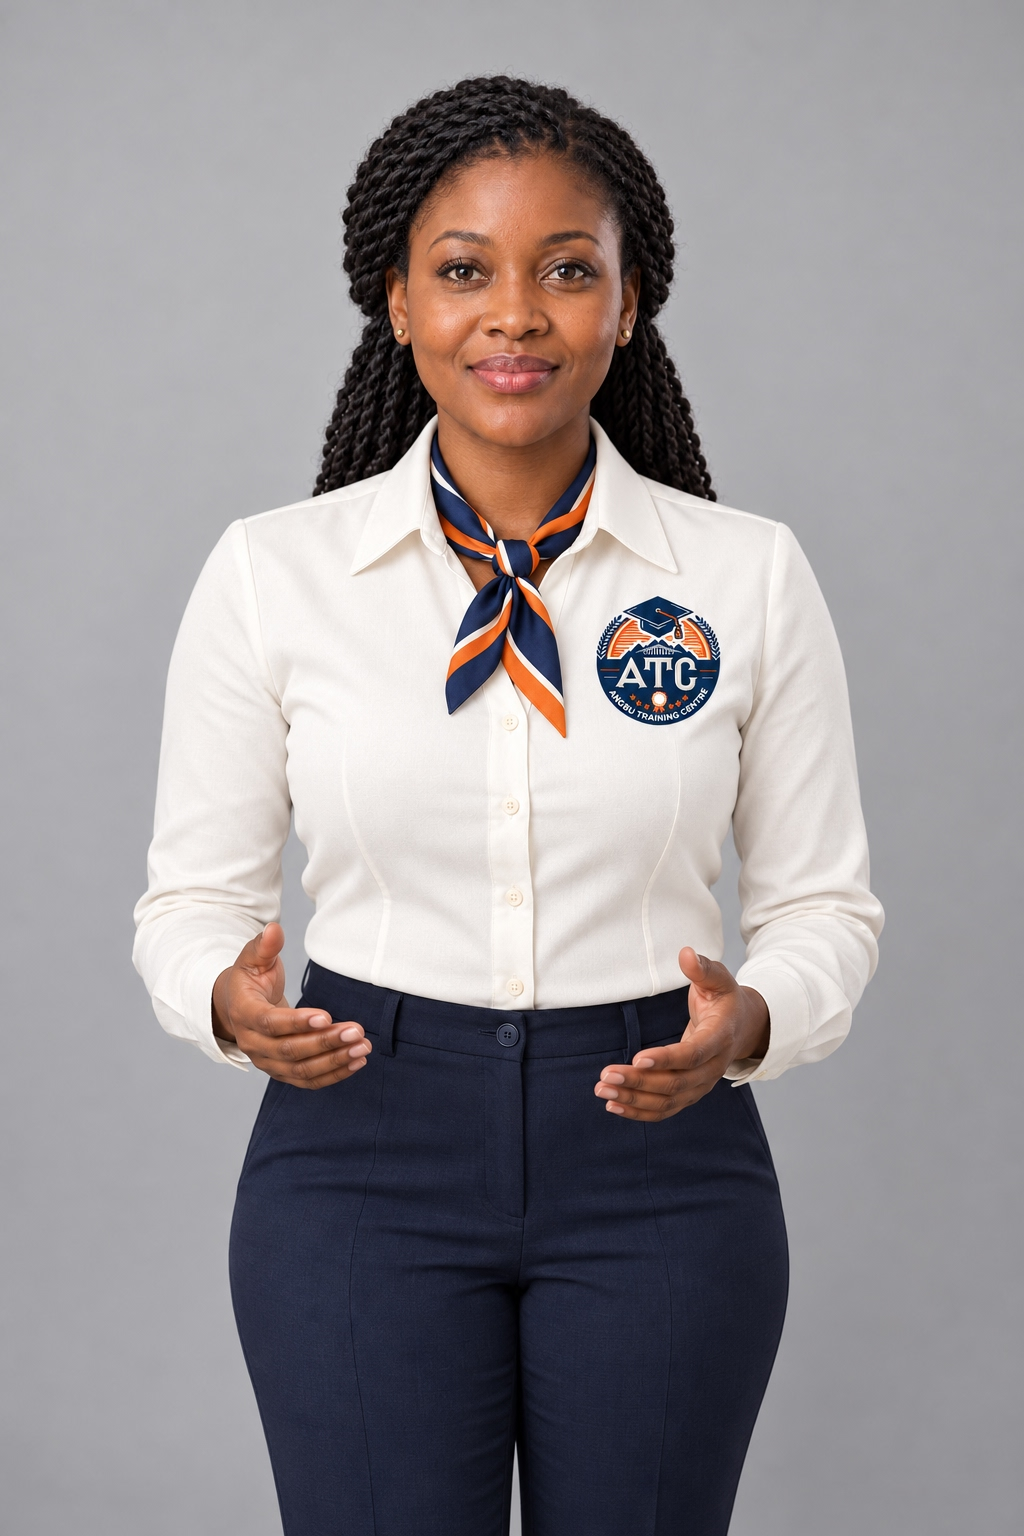
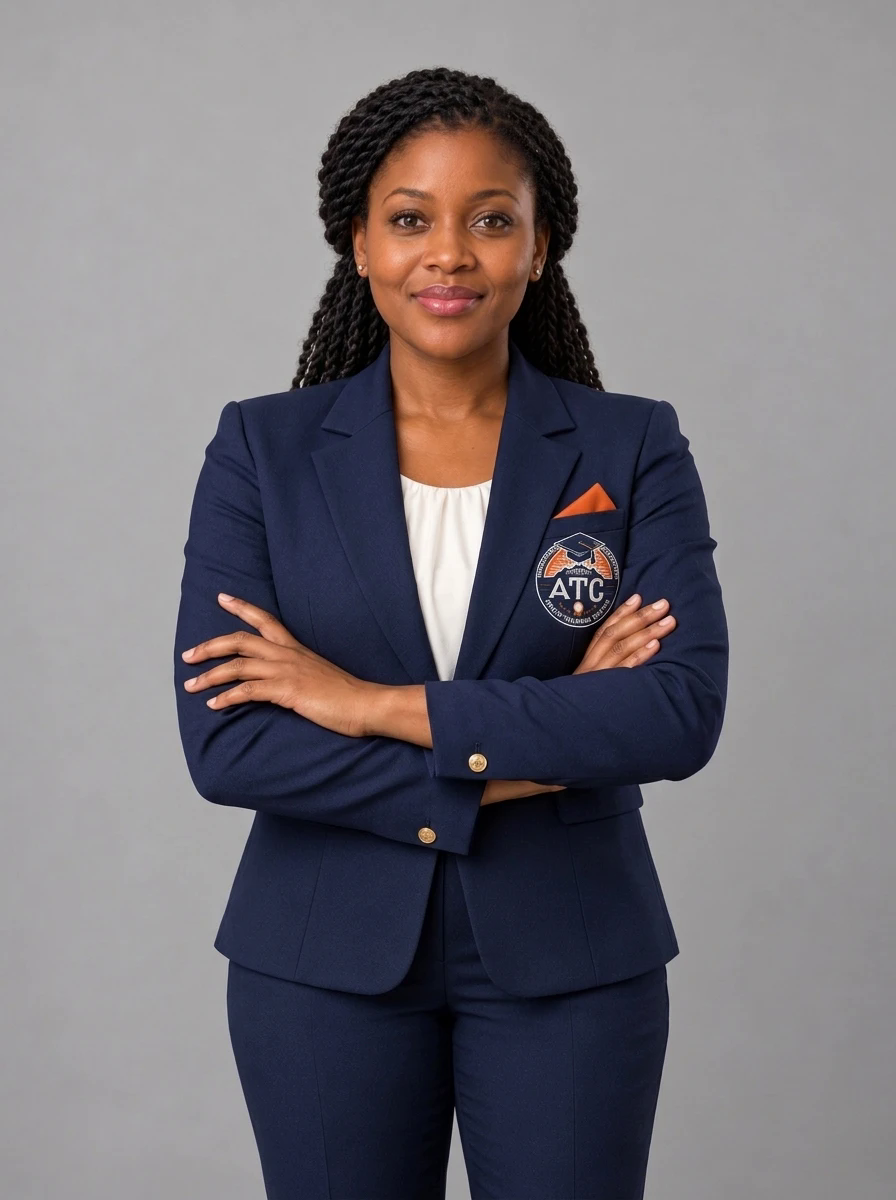
Ecrã de escolha do guia: novos retratos da Helena e do Miguel com blazer ATC
Claude-Session: https://claude.ai/code/session_01TW88vbDNNMSmGPktF3ssrz

diff --git a/static/atc.css b/static/atc.css
@@ -235,7 +235,7 @@ footer { background:transparent; color:#7b8593; border-top:1px solid var(--line)
 /* Learner identity and course presenters */
 .avatar-navy { background:#dbe7f2;color:#173b5b; }.avatar-green { background:#deece5;color:#296245; }.avatar-rose { background:#f3e0e5;color:#7d3e54; }.avatar-sand { background:#f1e4d5;color:#785231; }
 .avatar-large { width:70px;height:70px;font-size:26px; }.profile-intro { display:flex;align-items:center;gap:22px;margin-bottom:25px; }.profile-intro h2 { margin-top:5px; }.profile-intro p { margin:0; }.profile-colors { border:0;padding:0;display:flex;gap:20px;flex-wrap:wrap; }.profile-colors legend { font-size:12px;font-weight:600;margin-bottom:12px; }.color-choice { display:flex;align-items:center;gap:8px;font-size:12px; }.color-choice input { width:auto;margin:0;accent-color:var(--orange); }.color-swatch { width:22px;height:22px;border-radius:50%;display:block; }
-.profile-prompt { display:flex;gap:20px;align-items:center;justify-content:space-between;padding:20px 24px;background:#fff9f2;border:1px solid #efdfce;border-radius:10px;margin-bottom:28px; }.profile-prompt b { display:block;font-size:13px;overflow-wrap:anywhere; }.profile-prompt span { display:block;font-size:11px;color:var(--muted); }.profile-prompt a { flex-shrink:0; }.presenter-heading { text-align:center;margin:18px auto 28px;max-width:620px; }.presenter-heading h1 { font-size:38px;margin:14px 0; }.presenter-heading p { font-size:13px;color:var(--muted); }.presenter-options { display:grid;grid-template-columns:repeat(2,minmax(0,1fr));gap:28px;max-width:770px;margin:auto; }.presenter-option { position:relative;display:block;margin:0;border-radius:15px;background:#fff;border:2px solid var(--line);overflow:hidden;cursor:pointer;transition:border-color .2s,box-shadow .2s; }.presenter-option:hover { border-color:#c39772; }.presenter-option:has(input:checked) { border-color:var(--orange);box-shadow:0 0 0 4px #b9511614; }.presenter-option:has(input:focus-visible) { outline:3px solid var(--orange);outline-offset:5px; }.presenter-option>input { position:absolute;top:18px;left:18px;width:20px;height:20px;z-index:2;accent-color:var(--orange);margin:0; }.presenter-portrait { display:block;position:relative;aspect-ratio:1/1;overflow:hidden;background:#e5e3df; }.presenter-portrait img { width:100%;height:100%;object-fit:cover;object-position:50% 24%; }.selection-check { position:absolute;right:16px;bottom:16px;background:var(--orange);color:white;width:30px;height:30px;display:none;align-items:center;justify-content:center;border-radius:50%; }.presenter-option input:checked + .presenter-portrait .selection-check { display:flex; }.presenter-info { display:block;padding:20px 24px; }.presenter-info strong { display:block;font-size:25px;line-height:1.5; }.presenter-info>span:last-child { font-size:11px;color:var(--muted);font-weight:400; }.presenter-submit { max-width:770px;display:flex;justify-content:space-between;align-items:center;gap:20px;margin:26px auto; }.presenter-submit p { font-size:10px; }
+.profile-prompt { display:flex;gap:20px;align-items:center;justify-content:space-between;padding:20px 24px;background:#fff9f2;border:1px solid #efdfce;border-radius:10px;margin-bottom:28px; }.profile-prompt b { display:block;font-size:13px;overflow-wrap:anywhere; }.profile-prompt span { display:block;font-size:11px;color:var(--muted); }.profile-prompt a { flex-shrink:0; }.presenter-heading { text-align:center;margin:18px auto 28px;max-width:620px; }.presenter-heading h1 { font-size:38px;margin:14px 0; }.presenter-heading p { font-size:13px;color:var(--muted); }.presenter-options { display:grid;grid-template-columns:repeat(2,minmax(0,1fr));gap:28px;max-width:770px;margin:auto; }.presenter-option { position:relative;display:block;margin:0;border-radius:15px;background:#fff;border:2px solid var(--line);overflow:hidden;cursor:pointer;transition:border-color .2s,box-shadow .2s; }.presenter-option:hover { border-color:#c39772; }.presenter-option:has(input:checked) { border-color:var(--orange);box-shadow:0 0 0 4px #b9511614; }.presenter-option:has(input:focus-visible) { outline:3px solid var(--orange);outline-offset:5px; }.presenter-option>input { position:absolute;top:18px;left:18px;width:20px;height:20px;z-index:2;accent-color:var(--orange);margin:0; }.presenter-portrait { display:block;position:relative;aspect-ratio:1/1;overflow:hidden;background:#e5e3df; }.presenter-portrait img { width:100%;height:100%;object-fit:cover;object-position:50% 4%; }.selection-check { position:absolute;right:16px;bottom:16px;background:var(--orange);color:white;width:30px;height:30px;display:none;align-items:center;justify-content:center;border-radius:50%; }.presenter-option input:checked + .presenter-portrait .selection-check { display:flex; }.presenter-info { display:block;padding:20px 24px; }.presenter-info strong { display:block;font-size:25px;line-height:1.5; }.presenter-info>span:last-child { font-size:11px;color:var(--muted);font-weight:400; }.presenter-submit { max-width:770px;display:flex;justify-content:space-between;align-items:center;gap:20px;margin:26px auto; }.presenter-submit p { font-size:10px; }
 .presenter-banner { display:flex;align-items:center;gap:15px;padding:12px 18px;background:#fff;border:1px solid var(--line);border-radius:10px;margin:20px 0; }.presenter-banner img { width:48px;height:48px;border-radius:50%;object-fit:cover;object-position:50% 20%; }.presenter-banner div { margin-right:auto; }.presenter-banner b { font-size:14px; }.presenter-banner a { font-size:10px; }.presenter-banner .eyebrow { font-size:8px; }.intro-layout { display:grid;grid-template-columns:minmax(230px,.8fr) 1.2fr;gap:44px;align-items:center;margin:28px 0; }.intro-media { background:#e5e3df;border-radius:14px;overflow:hidden; }.intro-media img { width:100%;display:block; }.intro-media video { width:100%;display:block;max-height:650px; }.intro-copy h1 { font-size:35px;margin:14px 0; }.intro-copy .lead { font-size:17px; }.intro-script p { font-size:13px;line-height:1.9; }.intro-status { padding:12px 15px;border-left:3px solid #d89b6c;background:#fbefe4;font-size:11px; }
 .real-reference { padding:20px;background:#f6f8fa;border:1px solid var(--line);border-radius:10px; }.real-reference img { max-height:500px;object-fit:contain; }.real-reference figcaption { font-size:11px; }.asset-credit { font-size:10px;color:var(--muted); }
 @media(max-width:900px) { .intro-layout { grid-template-columns:1fr;gap:24px; }.intro-media { max-width:360px;margin:auto; }.presenter-options { gap:18px; }.presenter-heading h1 { font-size:30px; } }

diff --git a/atc_lms.py b/atc_lms.py
@@ -497,7 +497,7 @@ def page(title, body, user=None, csrf="", wide=False, flash="", profile=None, pr
     return f"""<!doctype html><html lang="pt-PT"><head><meta charset="utf-8">
 <meta name="viewport" content="width=device-width, initial-scale=1">
 <title>{h(title)} · ATC Formação</title><link rel="icon" href="/static/logo-200.png">
-<link rel="stylesheet" href="/static/atc.css?v=4"><meta name="csrf" content="{h(csrf)}"><script src="/static/ui.js?v=3" defer></script></head>
+<link rel="stylesheet" href="/static/atc.css?v=5"><meta name="csrf" content="{h(csrf)}"><script src="/static/ui.js?v=3" defer></script></head>
 <body class="{'app' if user else 'public'}"><a class="skip-link" href="#conteudo">Saltar para o conteúdo</a>{sidebar}<div class="workspace"><header class="top"><div class="wrap">{header}</div></header>
 <main id="conteudo" class="wrap{' wide' if wide else ''}">{flash_html}{body}</main>
 <footer><div class="wrap"><span>ATC · Angbu Training Centre</span><span>Luanda, Angola · Aprendizagem com propósito</span></div></footer></div></body></html>"""
@@ -1617,7 +1617,7 @@ def cert_page(r, code):
     hours = row["hours_class"] or row["hours_video"]
     verify = f"http://{r.headers.get('Host', 'localhost')}/verificar?codigo={code}"
     return f"""<!doctype html><html lang="pt-PT"><head><meta charset="utf-8"><title>Certificado {h(code)}</title>
-<meta name="viewport" content="width=device-width, initial-scale=1"><link rel="stylesheet" href="/static/atc.css?v=4"></head>
+<meta name="viewport" content="width=device-width, initial-scale=1"><link rel="stylesheet" href="/static/atc.css?v=5"></head>
 <body class="certbody"><div class="noprint certbar"><a href="/">← Voltar</a> <button onclick="print()" class="btn small">Imprimir / guardar PDF</button></div>
 <div class="cert"><div class="certin"><img src="/static/logo-600.png" alt="ATC"><p class="k">Certificado de conclusão</p>
 <p>Certifica-se que</p><h1>{h(row['name'])}</h1><p>concluiu com aproveitamento o curso</p><h2>{h(row['title'])}</h2>
